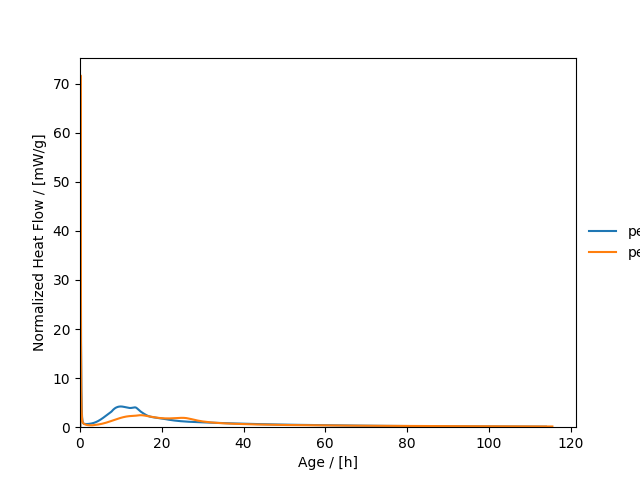
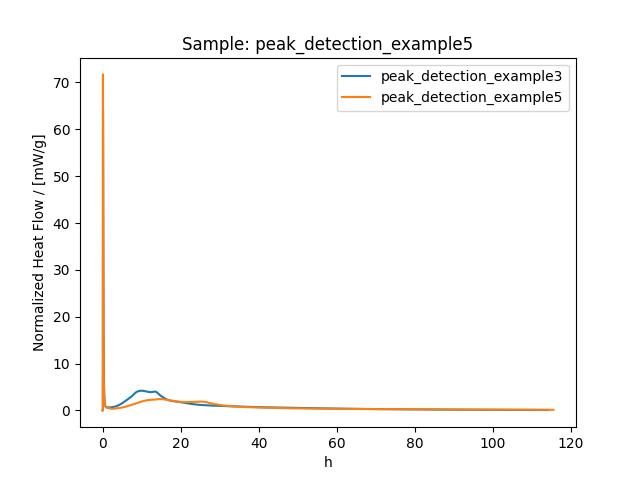
refactored plot method

diff --git a/TAInstCalorimetry/tacalorimetry.py b/TAInstCalorimetry/tacalorimetry.py
@@ -918,100 +918,16 @@ class Measurement:
         else:
             y_factor = 1
 
-        # if specific axis to plot to is specified
-        if isinstance(ax, matplotlib.axes._axes.Axes):
-            # iterate samples
-            for s, d in self._iter_samples():
-                # define pattern
-                if regex:
-                    if not re.findall(rf"{regex}", os.path.basename(s)):
-                        # go to next
-                        continue
-                # plot
-
-                # "standard" plot --> individual or averaged
-                p_mean = ax.plot(
-                    d["time_s"] * x_factor,
-                    d[y_column] * y_factor,
-                    label=os.path.basename(d["sample"].tolist()[0])
-                    .split(".xls")[0]
-                    .split(".csv")[0],
-                )
-                try:
-                    # std plot of "fill_between" type
-                    ax.fill_between(
-                        d["time_s"] * x_factor,
-                        (d[y_column] - d[f"{y_column}_std"]) * y_factor,
-                        (d[y_column] + d[f"{y_column}_std"]) * y_factor,
-                        color=p_mean[0].get_color(),
-                        alpha=0.4,
-                        label=None,
-                    )
-                except Exception:
-                    # do nothing
-                    pass
-
-            # legend
-            ax.legend(loc="center left", bbox_to_anchor=(1, 0.5), frameon=False)
-
-            # limits
-            ax.set_xlim(left=0)
-            ax.set_ylim(bottom=0)
-
-            # add labels
-            ax.set_xlabel(f"Age / [{t_unit}]")
-            ax.set_ylabel(y_label)
-
-            # return ax
-            return ax
-
-        # if no specific axis to plot to is specified
-        else:
-            # iterate samples
-            for s, d in self._iter_samples():
-                # define pattern
-                if regex:
-                    if not re.findall(rf"{regex}", os.path.basename(s)):
-                        # go to next
-                        continue
-                # plot
-
-                # "standard" plot --> individual or averaged
-                p_mean = plt.plot(
-                    d["time_s"] * x_factor,
-                    d[y_column] * y_factor,
-                    label=os.path.basename(d["sample"].tolist()[0])
-                    .split(".xls")[0]
-                    .split(".csv")[0],
-                )
-                try:
-                    # std plot of "fill_between" type
-                    plt.fill_between(
-                        d["time_s"] * x_factor,
-                        (d[y_column] - d[f"{y_column}_std"]) * y_factor,
-                        (d[y_column] + d[f"{y_column}_std"]) * y_factor,
-                        color=p_mean[0].get_color(),
-                        alpha=0.4,
-                        label=None,
-                    )
-                except Exception:
-                    # do nothing
-                    pass
-
-            # legend
-            plt.legend(loc="center left", bbox_to_anchor=(1, 0.5), frameon=False)
-
-            # limits
-            plt.xlim(left=0)
-            plt.ylim(bottom=0)
-
-            # add labels
-            plt.xlabel(f"Age / [{t_unit}]")
-            plt.ylabel(y_label)
-
-            # return ax
-            return plt.gca()
-
+        for sample, data in self._iter_samples():
+            if regex:
+                if not re.findall(rf"{regex}", os.path.basename(sample)):
+                    continue
+            data["time_s"] = data["time_s"] * x_factor
+            data[y_column] = data[y_column] * y_factor
+            ax, _ = utils.create_base_plot(data, ax, "time_s", y_column, sample)
+            ax = utils.style_base_plot(ax, y_label, t_unit, sample, )
+        return ax
+       
     #
     # plot by category
     #
@@ -2737,3 +2653,5 @@ def apply_resampling(df: pd.DataFrame, resampling_s="10s") -> pd.DataFrame:
     df = pd.concat([resampled_stringcols, resampled_numcols], axis=1)
     df["time_s"] = (df.index - df.index[0]).total_seconds()
     return df
+
+

diff --git a/TAInstCalorimetry/utils.py b/TAInstCalorimetry/utils.py
@@ -8,7 +8,7 @@ from scipy.ndimage import median_filter
 from pathlib import Path
 
 
-def create_base_plot(data, ax, _age_col, _target_col):
+def create_base_plot(data, ax, _age_col, _target_col, sample):
     """
     create base plot
     """
@@ -18,12 +18,12 @@ def create_base_plot(data, ax, _age_col, _target_col):
         new_ax = True
         _, ax = plt.subplots()
 
-    ax.plot(data[_age_col], data[_target_col])
+    ax.plot(data[_age_col], data[_target_col], label=Path(sample).stem)
     return ax, new_ax
 
 
 def style_base_plot(
-    ax, _target_col, _age_col, sample, limits, time_discarded_s=None
+    ax, _target_col, _age_col, sample, limits=None, time_discarded_s=None
 ):
     """
     style base plot
@@ -40,12 +40,24 @@ def style_base_plot(
             color="black",
             alpha=0.35,
         )
-    ax.set_xlim(limits["left"], limits["right"])
-    ax.set_ylim(limits["bottom"], limits["top"])
+    if limits is not None:
+        ax.set_xlim(limits["left"], limits["right"])
+        ax.set_ylim(limits["bottom"], limits["top"])
    # ax.set_ylim(0, plt_top)
     ax.legend()
     return ax
 
+def get_data_limits(data, _age_col, _target_col):
+    """
+    get data limits
+    """
+    limits = {
+        "left": data[_age_col].min(),
+        "right": data[_age_col].max(),
+        "bottom": data[_target_col].min(),
+        "top": data[_target_col].max(),
+    }
+    return limits
 
 #
 # conversion of DataFrame to float
